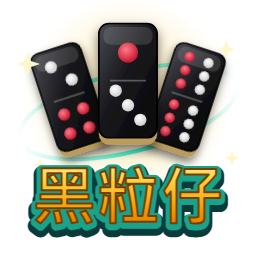
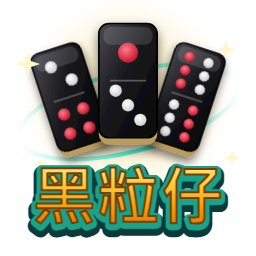
Heaven tile: top half red on the left, bottom half red on the right; fix blank pips in the single-tile ranking list

Changed region(s): [[0.625, 0.375, 0.7812, 0.5625]]

diff --git a/js/ui.js b/js/ui.js
@@ -32,13 +32,14 @@
   // ---------- 骨牌外觀 ----------
   // 半邊 3×3 格位置（1 左上 … 9 右下），跟骰子排法一樣
   const PIPS = { 1: [5], 2: [3, 7], 3: [3, 5, 7], 4: [1, 3, 7, 9], 5: [1, 3, 5, 7, 9], 6: [1, 3, 4, 6, 7, 9] };
-  // 傳統配色：1 點、4 點為紅；天牌兩個 6 各有一半（左排）是紅點
+  // 傳統配色：1 點、4 點為紅；天牌上下兩個 6 紅白相間、左右相反：上半左排紅右排白，下半左排白右排紅
+  // heaven：0 = 一般，1 = 天牌上半，2 = 天牌下半
   function half(n, heaven) {
-    const red = c => n === 1 || n === 4 || (heaven && c % 3 === 1);
+    const red = c => n === 1 || n === 4 || (heaven === 1 && c % 3 === 1) || (heaven === 2 && c % 3 === 0);
     return `<span class="half${n === 1 ? ' one' : ''}">` +
       PIPS[n].map(c => `<i class="${red(c) ? 'r' : ''}" style="grid-area:${Math.ceil(c / 3)}/${(c - 1) % 3 + 1}"></i>`).join('') + '</span>';
   }
-  const faceHTML = id => { const t = P.TILES[id]; const h = t.group === '天'; return half(t.pips[0], h) + half(t.pips[1], h); };
+  const faceHTML = id => { const t = P.TILES[id]; const h = t.group === '天'; return half(t.pips[0], h ? 1 : 0) + half(t.pips[1], h ? 2 : 0); };
   const mini = id => `<span class="mt" title="${P.TILES[id].name} ${P.TILES[id].pips.join('-')}">${faceHTML(id)}</span>`;
   const minis = (ids, gapAfter) => `<span class="mts">${ids.map((t, i) => mini(t) + (i === gapAfter ? '<span class="gap"></span>' : '')).join('')}</span>`;
 

diff --git a/tools/card-art.html b/tools/card-art.html
@@ -38,15 +38,15 @@
     <circle cx="-10" cy="12" r="6" fill="url(#r)"/><circle cx="10" cy="12" r="6" fill="url(#r)"/>
     <circle cx="-10" cy="32" r="6" fill="url(#r)"/><circle cx="10" cy="32" r="6" fill="url(#r)"/>
   </g>
-  <!-- 右：天牌 -->
+  <!-- 右：天牌（上半左紅右白、下半左白右紅） -->
   <g filter="url(#sh)" transform="translate(186 100) rotate(18)">
     <use href="#tile"/>
     <circle cx="-10" cy="-42" r="5" fill="url(#r)"/><circle cx="10" cy="-42" r="5" fill="url(#w)"/>
     <circle cx="-10" cy="-28" r="5" fill="url(#r)"/><circle cx="10" cy="-28" r="5" fill="url(#w)"/>
     <circle cx="-10" cy="-14" r="5" fill="url(#r)"/><circle cx="10" cy="-14" r="5" fill="url(#w)"/>
-    <circle cx="-10" cy="8" r="5" fill="url(#r)"/><circle cx="10" cy="8" r="5" fill="url(#w)"/>
-    <circle cx="-10" cy="22" r="5" fill="url(#r)"/><circle cx="10" cy="22" r="5" fill="url(#w)"/>
-    <circle cx="-10" cy="36" r="5" fill="url(#r)"/><circle cx="10" cy="36" r="5" fill="url(#w)"/>
+    <circle cx="-10" cy="8" r="5" fill="url(#w)"/><circle cx="10" cy="8" r="5" fill="url(#r)"/>
+    <circle cx="-10" cy="22" r="5" fill="url(#w)"/><circle cx="10" cy="22" r="5" fill="url(#r)"/>
+    <circle cx="-10" cy="36" r="5" fill="url(#w)"/><circle cx="10" cy="36" r="5" fill="url(#r)"/>
   </g>
   <!-- 中：丁三（至尊寶） -->
   <g filter="url(#sh)" transform="translate(128 84) scale(1.12)">

diff --git a/index.html b/index.html
@@ -7,8 +7,8 @@
 <link rel="icon" href="favicon.svg" type="image/svg+xml">
 <meta name="description" content="黑粒仔（台灣推牌九）：一莊三門，每家 4 張骨牌分前後兩對公比，兩對全贏才算贏（模擬遊戲幣，非真錢）">
 <title>黑粒仔</title>
-<link rel="stylesheet" href="css/style.css?v=3">
-<link rel="stylesheet" href="css/game.css?v=3">
+<link rel="stylesheet" href="css/style.css?v=4">
+<link rel="stylesheet" href="css/game.css?v=4">
 </head>
 <body>
 <header class="topbar">
@@ -214,8 +214,8 @@
 </dialog>
 
 <script src="js/sha256.js"></script>
-<script src="js/engine.js?v=3"></script>
-<script src="js/sound.js?v=3"></script>
-<script src="js/ui.js?v=3"></script>
+<script src="js/engine.js?v=4"></script>
+<script src="js/sound.js?v=4"></script>
+<script src="js/ui.js?v=4"></script>
 </body>
 </html>

diff --git a/css/game.css b/css/game.css
@@ -191,7 +191,7 @@
 .rk b { color: var(--strong); }
 .rk small { color: var(--muted); }
 .singles { display: flex; flex-wrap: wrap; gap: 8px 12px; font-size: 12px; }
-.singles span { display: inline-flex; align-items: center; gap: 4px; }
+.singles > span { display: inline-flex; align-items: center; gap: 4px; }
 .verify-out .vs { display: grid; grid-template-columns: 44px 1fr; gap: 6px 8px; align-items: center; margin-top: 8px; }
 .verify-out .vs b { color: var(--strong); }
 
